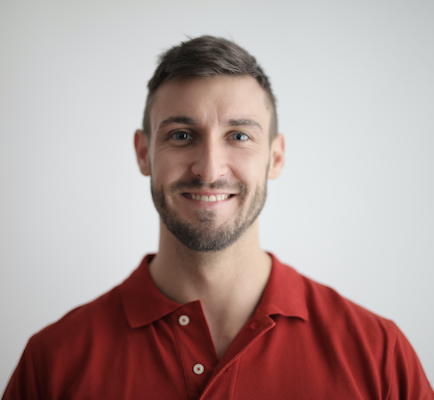
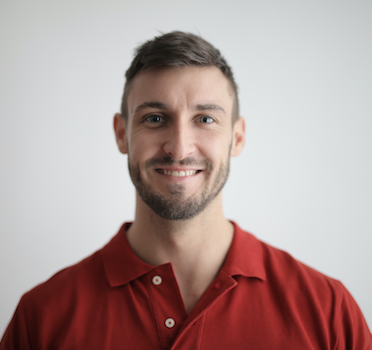
Added Agent Profile Page

diff --git a/css/style.css b/css/style.css
@@ -123,8 +123,13 @@ input[type=submit]:hover{
   justify-content: space-around;
   padding: 2rem;
   border-top: 0.1em solid black;
-  -ms-align-items: flex-start;
-  align-items: flex-start;
+  -ms-align-items: center;
+  align-items: center;
+}
+
+.content p{
+  margin-top: 0;
+  margin-bottom: 2em;
 }
 
 /* _________________________________________________________________________ */
@@ -228,7 +233,7 @@ input[type=submit]:hover{
   text-align: center;
   background-repeat: no-repeat;
   background-size: cover;
-  background-position: center;
+  background-position: top;
 }
 
 
@@ -293,9 +298,9 @@ input[type=submit]:hover{
   width: 100%;
 }
 
-.card-body
 .contact-details{
   height: 60%;
+  min-width: 70%;
   justify-content: space-between;
   /* background-color: #fff; */
 }
@@ -336,39 +341,30 @@ input[type=submit]:hover{
   -ms-align-items: center;
   align-items: center;
 }
-.about-mission{
-  width: 70%;
-  justify-content: flex-end;
-}
-.about-story{
+.about-section{
   height: auto;
   width: 70%;
   -ms-align-items: flex-start;
   align-items: flex-start;
 }
 
-.about-mission p, .about-story p{
+.about-section p{
   text-align: center;
   height: 100%;
   padding:0;
-  margin:0;
-}
-.about-mission p{
-  width: 40%;
-  margin-top: 4em;
+  margin:auto 0;
 }
 
-.about-mission img{
+.about-section img{
   width: 40%;
   border: 0.1em solid #1A1B1A;
-  margin-left:3em;
+  margin:3em;
   margin-bottom:2em;
 }
 
-.about-story img{
-  width: 40%;
-  border: 0.1em solid #1A1B1A;
-  margin-right:3em;
+.our-mission{
+  font-size:1.5em;
+  font-style: italic;
 }
 
 /* _________________________________________________________________________ */
@@ -566,7 +562,7 @@ input[type=submit]:hover{
   font-weight: 600; /*bold*/
 }
 
-.card a:hover, .card a:active, .card input[type=submit]:hover, .card input[type=submit]:active{
+.card a:hover, .card a:active, .card input[type=submit]:hover, .card input[type=submit]:active, .contact-details a:hover, .contact-details a:active{
   color: #3C505F;
 }
 
@@ -575,10 +571,6 @@ input[type=submit]:hover{
 .about-info img{
   box-shadow: 0.5em 0.5em 8px 0.25em #1A1B1A;
 }
-/* _________________________________________________________________________ */
-/* Listings Page */
-
-/* Stuff and things */
 /* _________________________________________________________________________ */
 /* Footer */
 
@@ -645,6 +637,9 @@ font-family: Verdana, sans-serif;
   text-shadow: 0.1em 0.1em 2px #1A1B1A;
 }
 
+.title .contact-details{
+  font-size: 1.2em;
+}
 /* _________________________________________________________________________ */
 /* Featured Properties (Index) */
 .house-info h3{
@@ -674,7 +669,7 @@ font-family: Verdana, sans-serif;
   text-shadow: 0.1em 0.1em 2px #1A1B1A;
 }
 
-.listings-content .card-head h3{
+.listings-items .card-head h3{
   font-size: 2.5rem;
   white-space: nowrap;
   overflow: hidden;

diff --git a/inc/title.php b/inc/title.php
@@ -1,11 +1,18 @@
 <?php
 
-  if ($active_page == 'index'){
-    $title_text = "Home is where the heart is"; //Slogan
-  }
-  else{ //Main text is page name
-    $title_text = str_replace('-', ' ', $active_page); //Add spaces
-    $title_text = ucwords($title_text); //Title Case
+  switch ($active_page) {
+    case 'index':
+      $title_text = "Home is where the heart is"; //Slogan
+      break;
+
+    case 'agent-profile':
+      $title_text = "{$agent['FName']} {$agent['SName']}";
+      break;
+
+    default: //Main text is page name
+      $title_text = str_replace('-', ' ', $active_page); //Add spaces
+      $title_text = ucwords($title_text); //Title Case
+      break;
   }
  ?>
 
@@ -24,8 +31,27 @@
 
   <?php
     //Display search in title for index page
-    if ($active_page == 'index' OR strpos($active_page,'listings') !== false){
+    if ($active_page == 'index' OR $active_page == 'listings'){
       include './inc/listings-search-form.php';
     }
+
+    if ($active_page == 'agent-profile'){
+      echo "
+          <div class=\"contact-details row\">
+            <p>
+              <b>W:</b>
+              <a href=\"tel:{$agent['WorkPh']}\">{$agent['WorkPh']}</a>
+            </p>
+            <p>
+              <b>M:</b>
+              <a href=\"tel:{$agent['MobilePh']}\">{$agent['MobilePh']}</a>
+            </p>
+            <p>
+              <b>E:</b>
+              <a href=\"mailto:{$agent['Email']}\">{$agent['Email']}</a>
+            </p>
+          </div>";
+    }
+
    ?>
  </div>

diff --git a/inc/functions.php b/inc/functions.php
@@ -129,7 +129,7 @@ function display_agent_card($agent){
               <p>Email: <a href=\"mailto:{$agent['Email']}\">{$agent['Email']}</a></p>
             </div>
 
-            <form method=\"post\" action=\"agent-profile.php\">
+            <form method=\"get\" action=\"agent-profile.php\">
               <input type=\"text\" name=\"AID\" value=\"{$agent['AID']}\"hidden />
               <input type=\"submit\" value=\"View My Listings\"/>
             </form> <!-- Styling for this is sorted normally with anchor styling, not in Form -->
@@ -150,7 +150,9 @@ function display_listing_card($listing){
                {$listing['Suburb']}
              </p>
 
-             <h2>$".number_format(floatval($listing['Price']))."</h2>
+             <h2>".
+             (($listing['Sold'])? "Sold":"$".number_format(floatval($listing['Price'])))
+             ."</h2>
 
              <p>
                Auction Date:
@@ -180,7 +182,7 @@ function display_listing_card($listing){
                </span>
              </div>
 
-             <form method=\"post\" action=\"listing-profile.php\">
+             <form method=\"get\" action=\"listing-profile.php\">
                <input type=\"text\" name=\"LID\" value=\"{$listing['LID']}\"hidden />
                <input type=\"submit\" value=\"Enquire &#8594;\"/>
              </form> <!-- Styling for this is sorted normally with anchor styling, not in Form -->

diff --git a/agent-profile.php b/agent-profile.php
@@ -1,4 +1,33 @@
-<?php
-// Get agent
-// Display agent information
- ?>
+<!DOCTYPE html>
+ <html lang="en">
+   <!-- Head content -->
+   <?php
+     include "./inc/head.php";
+     if(isset($_GET['AID'])){ //Only load page if navigated to from agent card
+       $ID = $_GET['AID'];
+       $agent = get_from_table("tbl_agents","tbl_agents.AID = {$ID}")[0];
+     }
+     else{ //Redirect to agents
+       header("Location: ./agents.php");
+     }
+
+   ?>
+
+   <body id="body">
+
+     <!-- Navigation -->
+     <?php include "./inc/nav.php"; ?>
+
+     <!-- Title Section -->
+     <?php include "./inc/title.php"; ?>
+
+     <div class="content column">
+       <?php include "./inc/agent-info.php" ?>
+       <hr class="solid">
+      <?php include "./inc/agent-listings.php"; ?>
+     </div>
+
+     <!-- Footer -->
+      <?php include "./inc/footer.php"; ?>
+   </body>
+ </html>

diff --git a/inc/about-story.php b/inc/about-story.php
@@ -1,6 +1,6 @@
 <div class="about-info column">
   <h1>Our Story</h1>
-  <div class="about-story row">
+  <div class="about-section row">
     <img src="./media/our-story.png" alt="Our Story">
     <p>Lorem ipsum dolor sit amet, consectetur adipiscing elit. Nam scelerisque risus vel ante suscipit vehicula. Morbi suscipit vehicula leo sed egestas. Mauris pretium in libero at pharetra. Donec in tincidunt dui. Pellentesque ut fermentum diam. Vivamus dictum leo quis efficitur iaculis. Sed facilisis dolor a elit pulvinar sollicitudin. Integer sed elementum lorem. Sed ac ornare libero. Cras ex lectus, dignissim non tincidunt non, tempus eu nibh. Nullam nec finibus tortor. Phasellus egestas mollis ornare. Sed rutrum mi ac hendrerit cursus. Suspendisse quis odio a diam commodo sollicitudin.
       <br> <br>

diff --git a/inc/agent-listings.php b/inc/agent-listings.php
@@ -1,0 +1,35 @@
+
+
+
+<h1>My Active Listings</h1>
+
+
+
+
+
+
+
+<div class="listings-items row">
+  <?php
+  $listings_query = "SELECT *
+                     FROM tbl_listings
+                     INNER JOIN tbl_properties
+                     ON tbl_listings.Property = tbl_properties.PID
+                     WHERE tbl_listings.Sold = false
+                        AND tbl_listings.Agent = {$agent['AID']}";
+  //Run Query
+  $result = $conn -> query($listings_query);
+  $listings = [];
+  while($listing = $result -> fetch_assoc()){
+    $listings[] = $listing;
+  }
+
+  if(empty($listings)){
+    echo 'No Active Listings';
+  }
+  //Display Listings
+  foreach($listings as $listing){
+    display_listing_card($listing); //Display Listings
+  }
+   ?>
+</div>

diff --git a/inc/about-mission.php b/inc/about-mission.php
@@ -1,7 +1,7 @@
 <div class="about-info column">
   <h1>Our Mission</h1>
-  <div class="about-mission row">
-    <p>Our Mission is to always do right by our customers to provide you the best service and the best homes.</p>
+  <div class="about-section row">
+    <p class="our-mission">Our Mission is to always do right by our customers to provide you the best service and the best homes.</p>
     <img src="./media/about-mission.png" alt="Our Mission">
   </div>
 </div>

diff --git a/inc/agent-info.php b/inc/agent-info.php
@@ -1,0 +1,9 @@
+<div class="about-info column">
+  <h1>About Me</h1>
+  <div class="about-section row">
+    <?php echo "<img src=\"./media/agents/{$agent['AID']}.png\" alt=\"{$agent['FName']} {$agent['SName']}\">"; ?>
+    <p>
+      <?php echo $agent['Bio'];?>
+    </p>
+  </div>
+</div>
